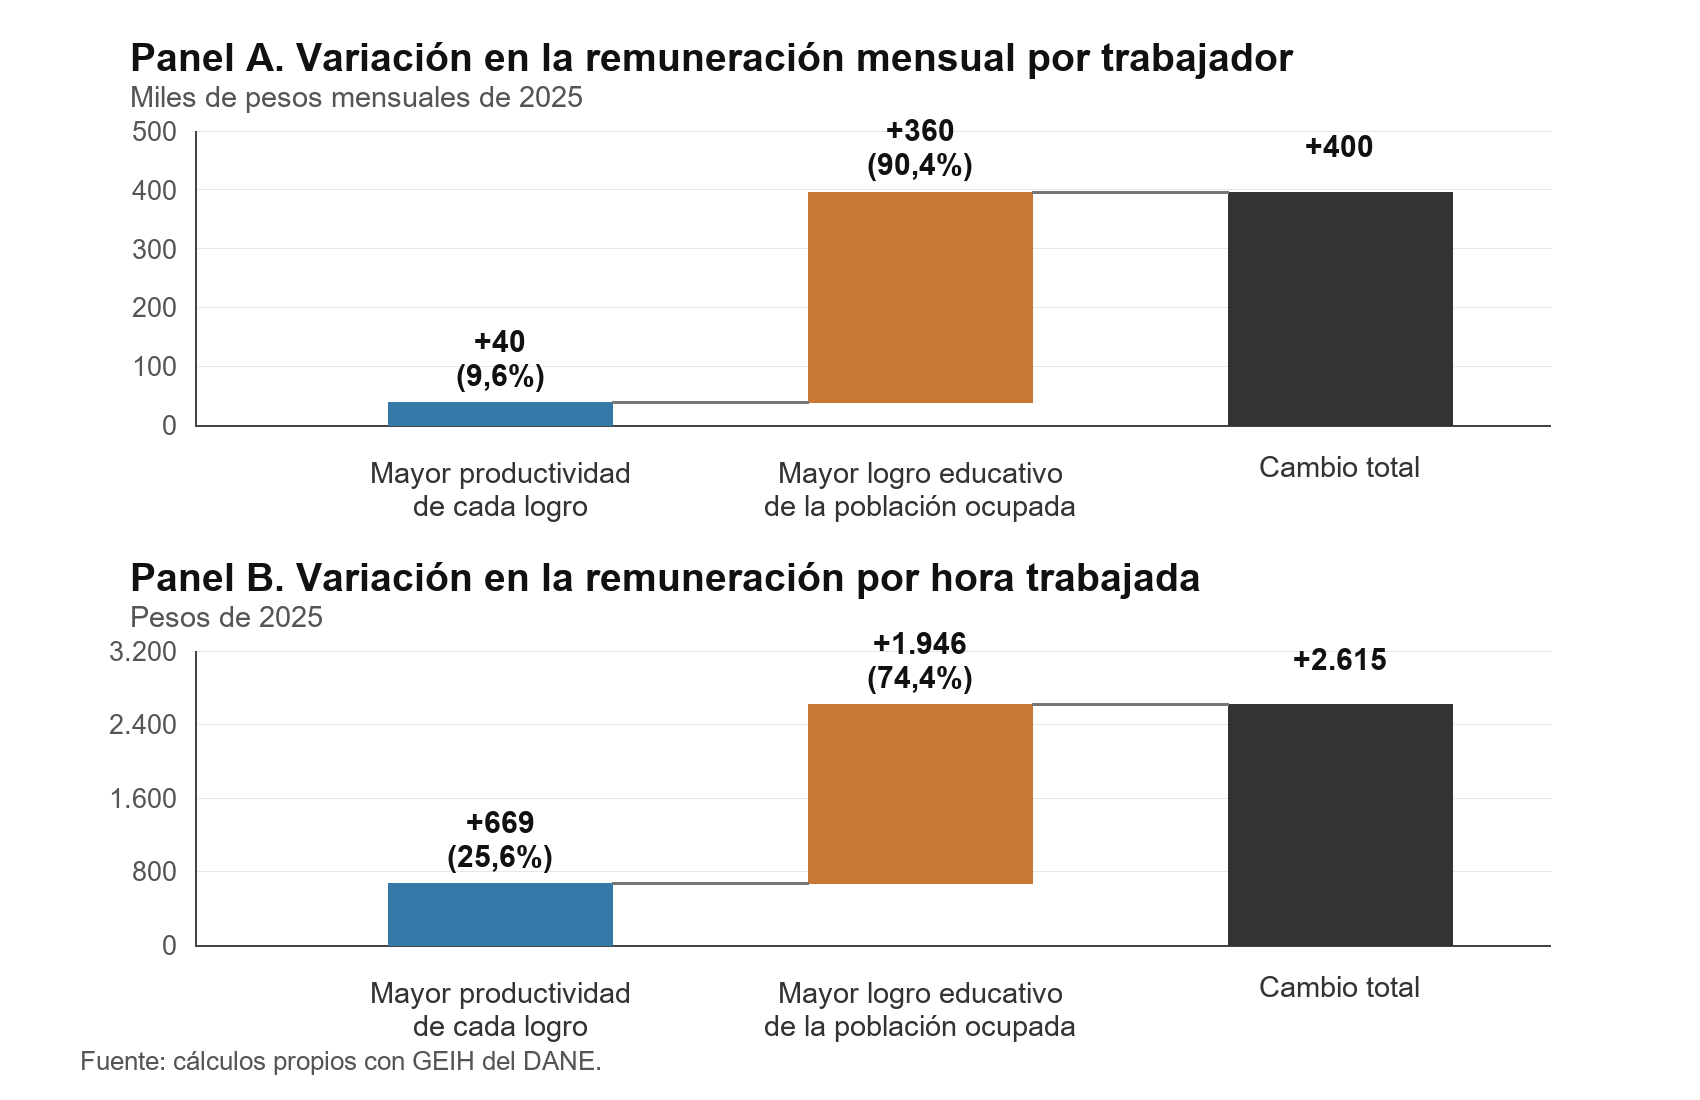
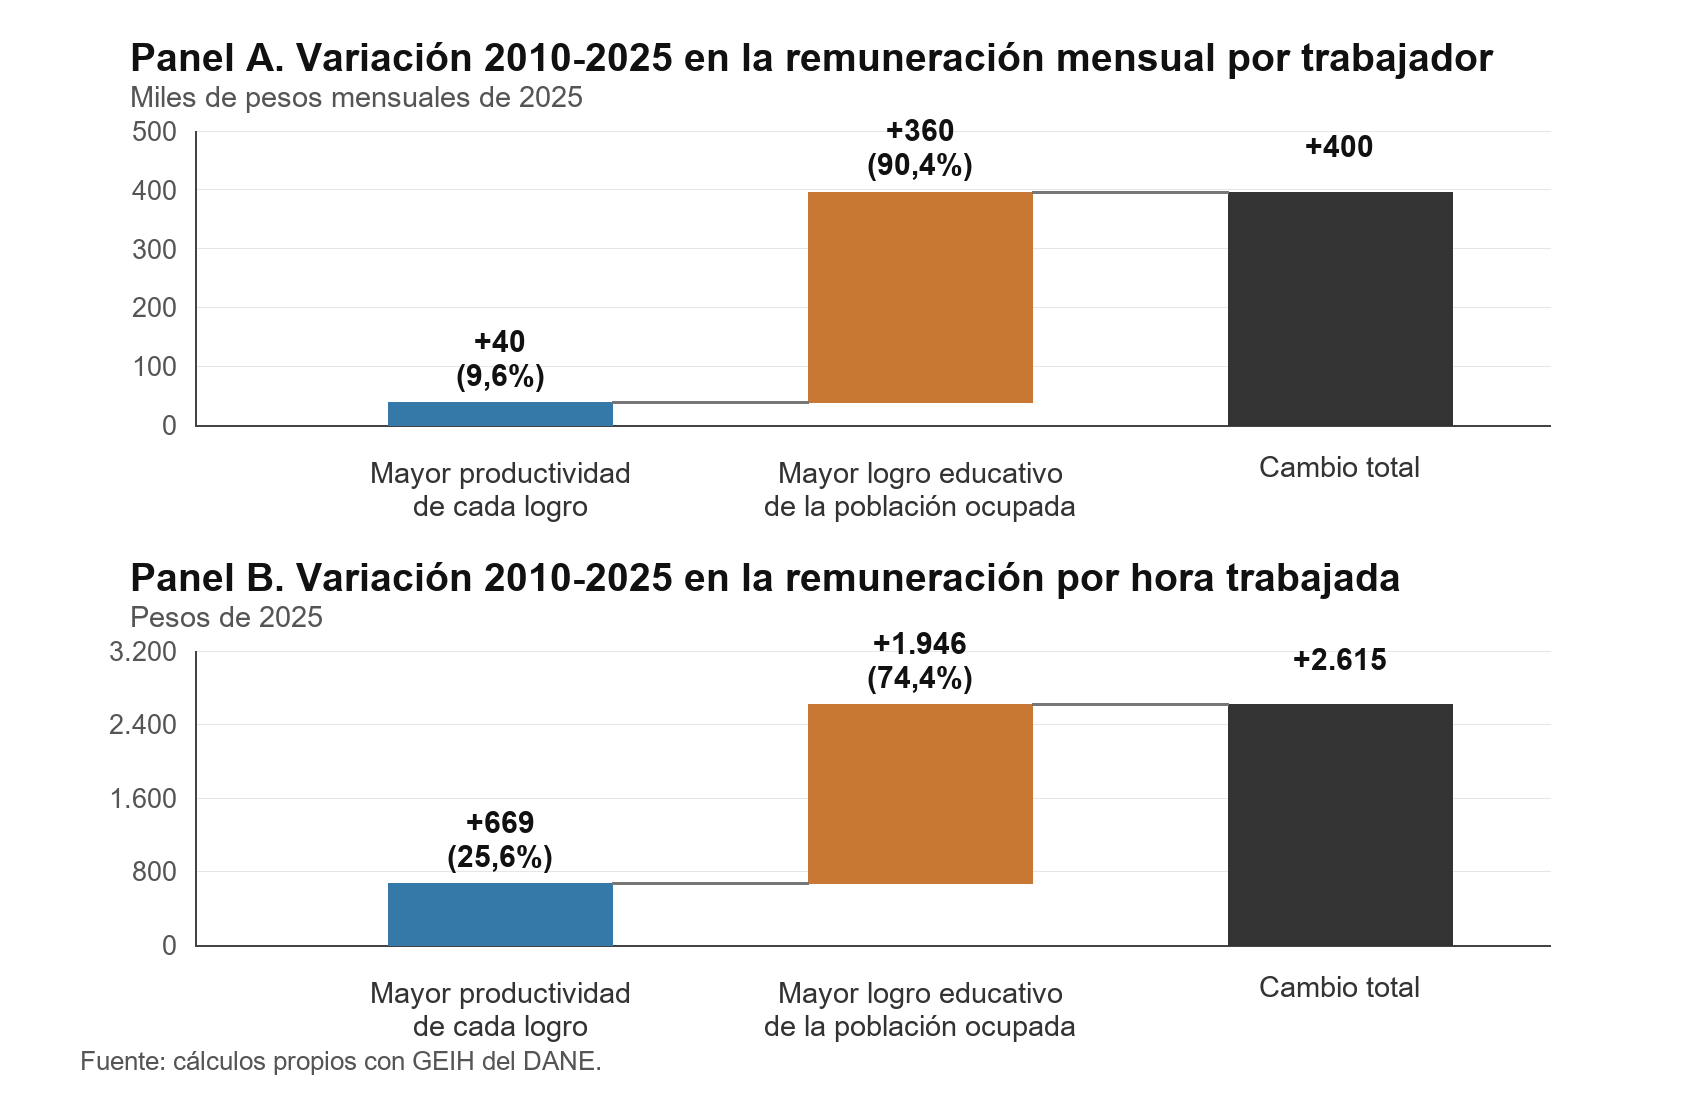
Aclara periodo en titulos de cascada

Changed region(s): [[0.2806, 0.4945, 0.8418, 0.5564], [0.2806, 0.0309, 0.8729, 0.0618]]

diff --git a/scripts/create_decomposition_waterfall.py b/scripts/create_decomposition_waterfall.py
@@ -239,7 +239,7 @@ def main() -> None:
     draw_panel(
         draw,
         35,
-        "Panel A. Variaci\u00f3n en la remuneraci\u00f3n mensual por trabajador",
+        "Panel A. Variaci\u00f3n 2010-2025 en la remuneraci\u00f3n mensual por trabajador",
         "Miles de pesos mensuales de 2025",
         worker,
         "worker",
@@ -251,7 +251,7 @@ def main() -> None:
     draw_panel(
         draw,
         555,
-        "Panel B. Variaci\u00f3n en la remuneraci\u00f3n por hora trabajada",
+        "Panel B. Variaci\u00f3n 2010-2025 en la remuneraci\u00f3n por hora trabajada",
         "Pesos de 2025",
         hour,
         "hour",
